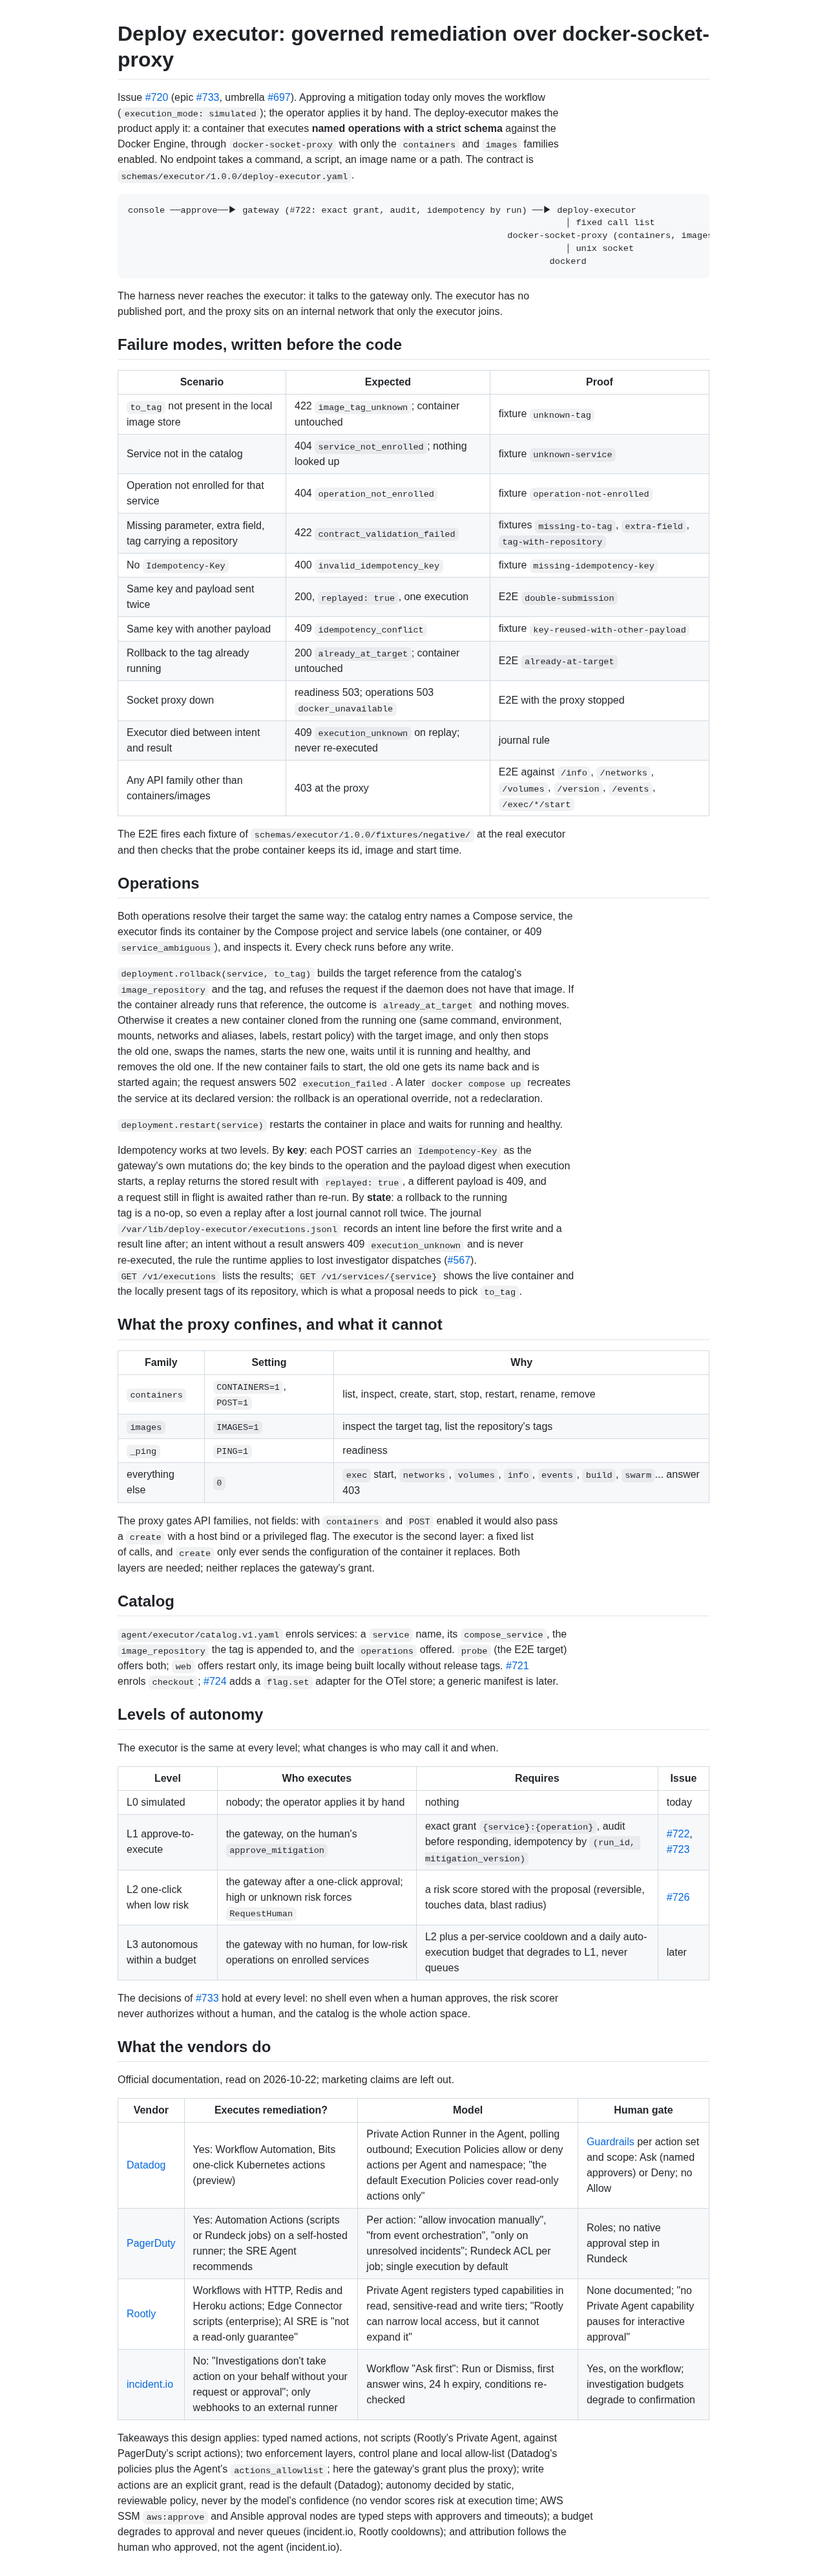
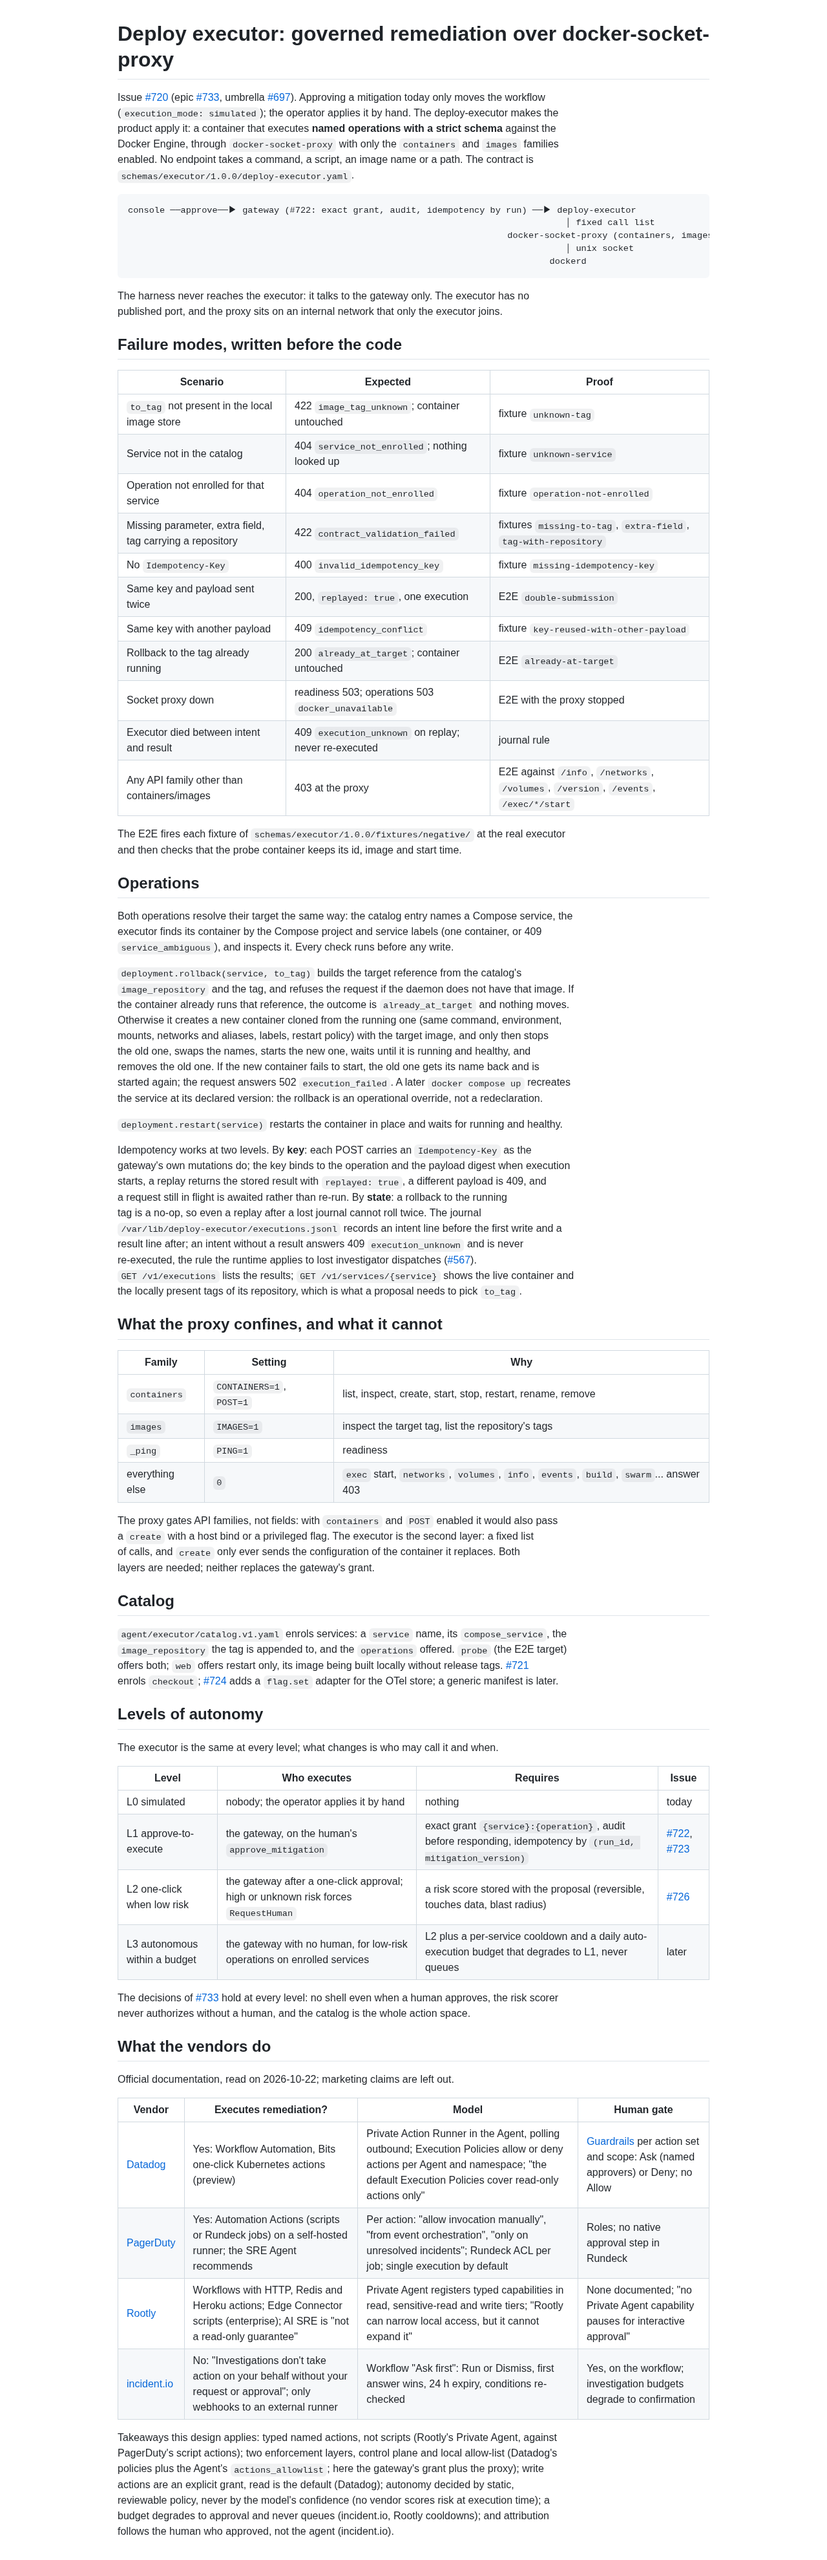
docs(executor): keep the contract unit under the size rule and refresh its evidence (#720)
Refs #720. Drops the redundant catalog-read example (the contract's reads block
and the runtime's GET /v1/catalog cover it), tightens two comments, and
regenerates the validation output with the script the PR carries and the
rendered design note from the same text.

diff --git a/docs/deploy-executor.md b/docs/deploy-executor.md
@@ -116,7 +116,6 @@ Takeaways this design applies: typed named actions, not scripts (Rootly's Privat
 PagerDuty's script actions); two enforcement layers, control plane and local allow-list (Datadog's
 policies plus the Agent's `actions_allowlist`; here the gateway's grant plus the proxy); write
 actions are an explicit grant, read is the default (Datadog); autonomy decided by static,
-reviewable policy, never by the model's confidence (no vendor scores risk at execution time; AWS
-SSM `aws:approve` and Ansible approval nodes are typed steps with approvers and timeouts); a budget
-degrades to approval and never queues (incident.io, Rootly cooldowns); and attribution follows the
-human who approved, not the agent (incident.io).
+reviewable policy, never by the model's confidence (no vendor scores risk at execution time); a
+budget degrades to approval and never queues (incident.io, Rootly cooldowns); and attribution
+follows the human who approved, not the agent (incident.io).
